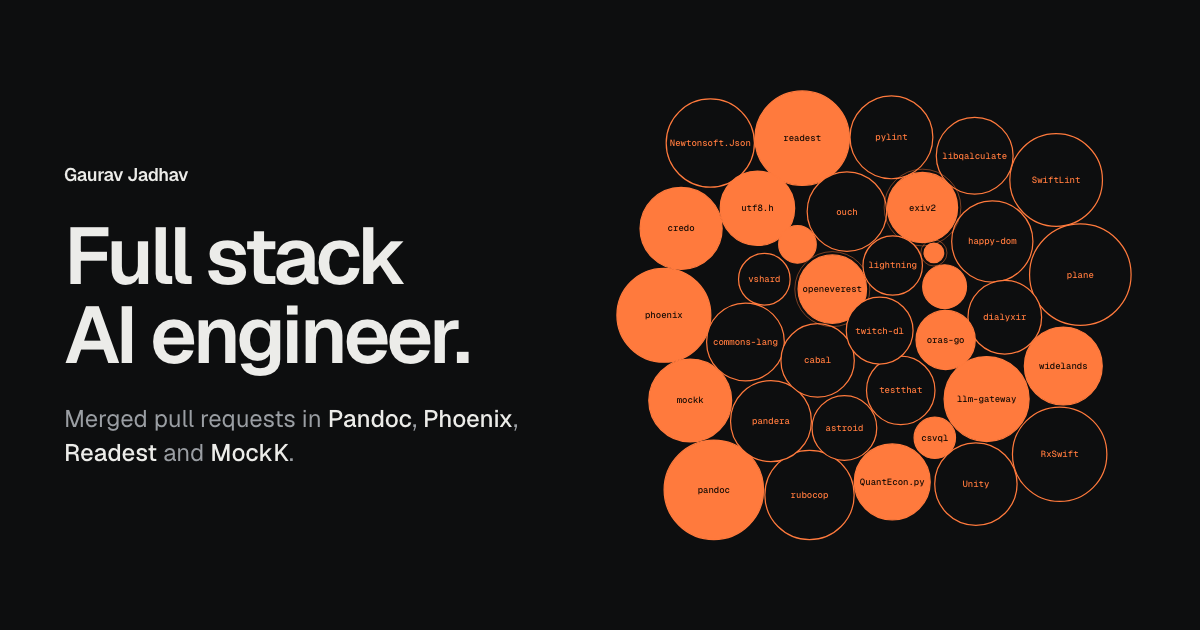
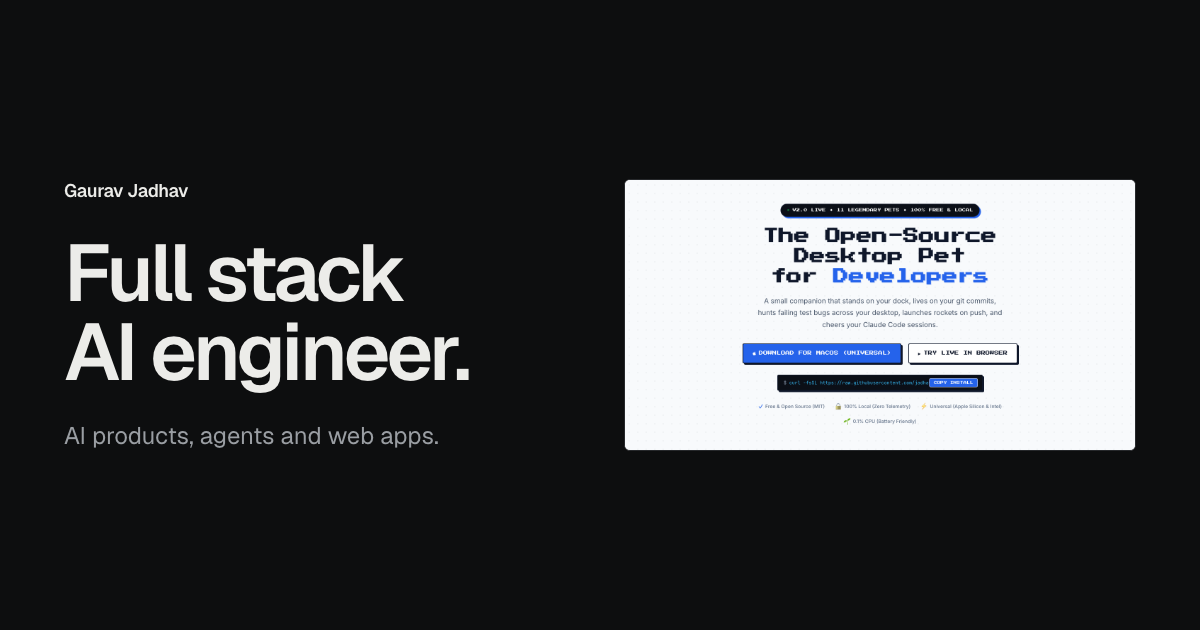
Lead with projects and background, move open source to a secondary section

diff --git a/index.html b/index.html
@@ -4,7 +4,7 @@
   <meta charset="utf-8">
   <meta name="viewport" content="width=device-width, initial-scale=1">
   <title>Gaurav Jadhav | Full Stack AI Engineer</title>
-  <meta name="description" content="Gaurav Jadhav is a full stack AI engineer in Mumbai. Merged pull requests in Pandoc, Phoenix, Readest and MockK, plus projects he built on his own.">
+  <meta name="description" content="Gaurav Jadhav is a full stack AI engineer in Mumbai. AI products, agents and web apps, plus open-source fixes merged into Pandoc, Phoenix and Readest.">
   <meta name="theme-color" content="#0d0e0f" media="(prefers-color-scheme: dark)">
   <meta name="theme-color" content="#f6f6f5" media="(prefers-color-scheme: light)">
   <link rel="canonical" href="https://jadhavgaurav.github.io/">
@@ -13,7 +13,7 @@
   <meta property="og:type" content="website">
   <meta property="og:site_name" content="Gaurav Jadhav">
   <meta property="og:title" content="Gaurav Jadhav | Full Stack AI Engineer">
-  <meta property="og:description" content="Merged pull requests in Pandoc, Phoenix, Readest and MockK, plus projects built on his own.">
+  <meta property="og:description" content="AI products, agents and web apps, plus open-source fixes merged into Pandoc, Phoenix and Readest.">
   <meta property="og:url" content="https://jadhavgaurav.github.io/">
   <meta property="og:image" content="https://jadhavgaurav.github.io/assets/og.png">
   <meta property="og:image:width" content="1200">
@@ -58,9 +58,9 @@
     <div class="container header-inner">
       <a class="wordmark" href="#top">Gaurav Jadhav</a>
       <nav class="primary-nav" aria-label="Primary">
-        <a href="#open-source">Open source</a>
         <a href="#projects">Projects</a>
         <a href="#background">Background</a>
+        <a href="#open-source">Open source</a>
       </nav>
       <div class="header-actions">
         <a class="btn btn-quiet btn-small" href="#contact">Contact</a>
@@ -81,64 +81,24 @@
             <span class="line"><span>AI engineer.</span></span>
           </h1>
           <p class="hero-lead">
-            At Alsonotify, a Digibranders brand.
-            <span data-count="mergedPullRequests">43</span> merged pull requests across
-            <span data-count="mergedProjects">16</span> open-source projects,
-            <span data-count="openPullRequests">31</span> more in review.
+            At Alsonotify, a Digibranders brand. I build AI products, agents and web apps in TypeScript and Python.
           </p>
           <div class="hero-actions">
-            <a class="btn btn-primary" href="#open-source">Open-source work</a>
+            <a class="btn btn-primary" href="#projects">Selected work</a>
             <a class="btn btn-quiet" href="#contact">Contact</a>
           </div>
         </div>
 
         <figure class="hero-visual">
-          <div class="field" id="field" aria-hidden="true" aria-busy="true">
-            <svg id="field-svg" viewBox="0 0 640 560" preserveAspectRatio="xMidYMid meet" role="presentation"></svg>
-            <div class="tooltip" id="tooltip" hidden></div>
-          </div>
-          <figcaption class="field-note">
-            Every project I have sent a pull request to. Size follows stars. Filled means merged, outlined means in review.
+          <a class="shot" href="https://jadhavgaurav.github.io/bitling/" rel="noopener">
+            <img src="assets/bitling-site.png" width="1440" height="760" fetchpriority="high" decoding="async"
+                 alt="The Bitling website: a pixel-font headline reading The Open-Source Desktop Pet for Developers, with download and live demo buttons.">
+          </a>
+          <figcaption class="shot-note">
+            Bitling, my desktop pet for developers.
+            <a class="text-link" href="https://jadhavgaurav.github.io/bitling/" rel="noopener">Try the live demo<span class="icon" style="--icon: url(/assets/icons/arrow-up-right.svg)" aria-hidden="true"></span></a>
           </figcaption>
         </figure>
-      </div>
-    </section>
-
-    <section class="section" id="open-source" aria-labelledby="oss-title">
-      <div class="container">
-        <h2 class="section-title reveal" id="oss-title">Fixes merged into projects people depend on.</h2>
-        <p class="section-lead reveal">Every row links to the pull request on GitHub. The list rebuilds each day from GitHub's API.</p>
-
-        <dl class="stats reveal" id="stats">
-          <div class="stat"><dt>Merged pull requests</dt><dd data-count="mergedPullRequests">43</dd></div>
-          <div class="stat"><dt>Projects with a merge</dt><dd data-count="mergedProjects">16</dd></div>
-          <div class="stat"><dt>Pull requests in review</dt><dd data-count="openPullRequests">31</dd></div>
-          <div class="stat"><dt>Languages touched</dt><dd data-count="languages">16</dd></div>
-        </dl>
-
-        <div class="toolbar reveal">
-          <div class="filters" role="group" aria-label="Filter projects">
-            <button type="button" class="filter" data-filter="all" aria-pressed="true">All</button>
-            <button type="button" class="filter" data-filter="merged" aria-pressed="false">Merged</button>
-            <button type="button" class="filter" data-filter="open" aria-pressed="false">In review</button>
-          </div>
-          <p class="toolbar-status" id="ledger-status" role="status"></p>
-        </div>
-
-        <ol class="ledger" id="ledger" aria-live="off">
-          <li class="ledger-skeleton" aria-hidden="true"></li>
-          <li class="ledger-skeleton" aria-hidden="true"></li>
-          <li class="ledger-skeleton" aria-hidden="true"></li>
-        </ol>
-        <noscript>
-          <p class="ledger-message">The open-source record needs JavaScript.
-            <a href="https://github.com/search?q=author%3Ajadhavgaurav+is%3Apr+is%3Amerged+-user%3Ajadhavgaurav&amp;type=pullrequests">Browse it on GitHub</a>.</p>
-        </noscript>
-        <p class="ledger-message" id="ledger-error" hidden>
-          The record could not be loaded.
-          <a href="https://github.com/search?q=author%3Ajadhavgaurav+is%3Apr+is%3Amerged+-user%3Ajadhavgaurav&amp;type=pullrequests">Browse it on GitHub</a>.
-        </p>
-        <button type="button" class="btn btn-quiet more" id="ledger-more" hidden></button>
       </div>
     </section>
 
@@ -194,7 +154,7 @@
           <div>
             <dt>Phishing website detection</dt>
             <dd>11,430 pages and 89 raw features, cut to 28 by four selection methods and explained with SHAP and LIME. Built during an internship at Code B Solutions.
-              <a class="text-link" href="https://website-phishing-detection.streamlit.app" rel="noopener">Live app<span class="icon" style="--icon: url(/assets/icons/arrow-up-right.svg)" aria-hidden="true"></span></a></dd>
+              <a class="text-link" href="https://github.com/jadhavgaurav/CodeB_Internship_Project" rel="noopener">Source<span class="icon" style="--icon: url(/assets/icons/arrow-up-right.svg)" aria-hidden="true"></span></a></dd>
           </div>
           <div>
             <dt>Kidney disease classification</dt>
@@ -249,6 +209,57 @@
             <p>The final-year project became the paper above.</p>
           </li>
         </ol>
+      </div>
+    </section>
+
+    <section class="section" id="open-source" aria-labelledby="oss-title">
+      <div class="container">
+        <div class="oss-head">
+          <div class="oss-intro">
+            <h2 class="section-title reveal" id="oss-title">Fixes merged into projects people depend on.</h2>
+            <p class="section-lead reveal">Open source runs alongside my main work. Every row links to the pull request on GitHub, and the list rebuilds each day.</p>
+            <dl class="stats reveal" id="stats">
+              <div class="stat"><dt>Merged pull requests</dt><dd data-count="mergedPullRequests">43</dd></div>
+              <div class="stat"><dt>Projects with a merge</dt><dd data-count="mergedProjects">16</dd></div>
+              <div class="stat"><dt>Pull requests in review</dt><dd data-count="openPullRequests">31</dd></div>
+              <div class="stat"><dt>Languages touched</dt><dd data-count="languages">16</dd></div>
+            </dl>
+          </div>
+
+          <figure class="oss-visual">
+            <div class="field" id="field" aria-hidden="true" aria-busy="true">
+              <svg id="field-svg" viewBox="0 0 640 560" preserveAspectRatio="xMidYMid meet" role="presentation"></svg>
+              <div class="tooltip" id="tooltip" hidden></div>
+            </div>
+            <figcaption class="field-note">
+              Every project I have sent a pull request to. Size follows stars. Filled means merged, outlined means in review.
+            </figcaption>
+          </figure>
+        </div>
+
+        <div class="toolbar reveal">
+          <div class="filters" role="group" aria-label="Filter projects">
+            <button type="button" class="filter" data-filter="all" aria-pressed="true">All</button>
+            <button type="button" class="filter" data-filter="merged" aria-pressed="false">Merged</button>
+            <button type="button" class="filter" data-filter="open" aria-pressed="false">In review</button>
+          </div>
+          <p class="toolbar-status" id="ledger-status" role="status"></p>
+        </div>
+
+        <ol class="ledger" id="ledger" aria-live="off">
+          <li class="ledger-skeleton" aria-hidden="true"></li>
+          <li class="ledger-skeleton" aria-hidden="true"></li>
+          <li class="ledger-skeleton" aria-hidden="true"></li>
+        </ol>
+        <noscript>
+          <p class="ledger-message">The open-source record needs JavaScript.
+            <a href="https://github.com/search?q=author%3Ajadhavgaurav+is%3Apr+is%3Amerged+-user%3Ajadhavgaurav&amp;type=pullrequests">Browse it on GitHub</a>.</p>
+        </noscript>
+        <p class="ledger-message" id="ledger-error" hidden>
+          The record could not be loaded.
+          <a href="https://github.com/search?q=author%3Ajadhavgaurav+is%3Apr+is%3Amerged+-user%3Ajadhavgaurav&amp;type=pullrequests">Browse it on GitHub</a>.
+        </p>
+        <button type="button" class="btn btn-quiet more" id="ledger-more" hidden></button>
       </div>
     </section>
 

diff --git a/css/styles.css b/css/styles.css
@@ -281,12 +281,6 @@ a { color: inherit; }
   line-height: 1.5;
   color: var(--muted);
 }
-.hero-lead [data-count] {
-  color: var(--text);
-  font-family: var(--font-mono);
-  font-size: 0.92em;
-  font-weight: 500;
-}
 
 .hero-actions {
   display: flex;
@@ -297,13 +291,18 @@ a { color: inherit; }
 
 .hero-visual { min-width: 0; }
 
-.field {
-  position: relative;
-  width: 100%;
-  aspect-ratio: 640 / 560;
+.shot {
+  display: block;
+  overflow: hidden;
+  background: #ffffff;
+  border: 1px solid var(--line);
+  border-radius: var(--radius);
+  transition: transform 300ms var(--ease), border-color 200ms ease;
 }
-.field svg { display: block; width: 100%; height: 100%; overflow: visible; }
+.shot:hover { transform: translateY(-3px); border-color: var(--muted); }
+.shot img { width: 100%; height: auto; }
 
+.shot-note,
 .field-note {
   max-width: 34rem;
   margin-top: 14px;
@@ -312,6 +311,14 @@ a { color: inherit; }
   line-height: 1.55;
   color: var(--muted);
 }
+.shot-note .text-link { margin-left: 6px; }
+
+.field {
+  position: relative;
+  width: 100%;
+  aspect-ratio: 640 / 560;
+}
+.field svg { display: block; width: 100%; height: 100%; overflow: visible; }
 
 .bubble { cursor: pointer; }
 .bubble-body {
@@ -362,22 +369,28 @@ a { color: inherit; }
   .js .hero-title .line:nth-child(2) > span { animation-delay: 90ms; }
   .js .hero-lead,
   .js .hero-actions,
-  .js .field-note {
+  .js .hero-visual {
     opacity: 0;
     animation: fade-up 800ms var(--ease) forwards;
   }
   .js .hero-lead { animation-delay: 260ms; }
   .js .hero-actions { animation-delay: 360ms; }
-  .js .field-note { animation-delay: 900ms; }
+  .js .hero-visual { animation-delay: 200ms; }
 
-  /* The entrance runs on the outer group so it never fights the hover scale. */
+  /*
+   * The field sits below the fold, so its bubbles wait until it scrolls into
+   * view (main.js adds .is-live). The entrance runs on the outer group so it
+   * never fights the hover scale.
+   */
   .js .bubble-enter {
     opacity: 0;
     transform: scale(0.2);
     transform-box: fill-box;
     transform-origin: center;
+  }
+  .js .field.is-live .bubble-enter {
     animation: pop 800ms var(--ease) forwards;
-    animation-delay: calc(var(--i, 0) * 22ms + 200ms);
+    animation-delay: calc(var(--i, 0) * 22ms);
   }
 
   .js .reveal {
@@ -410,14 +423,20 @@ a { color: inherit; }
   font-size: 1.0625rem;
 }
 
+/* Open-source header: copy and numbers on the left, the star-scaled field on the right. */
+.oss-head { display: grid; gap: clamp(40px, 6vw, 64px); align-items: center; }
+@media (min-width: 960px) {
+  .oss-head { grid-template-columns: minmax(0, 0.85fr) minmax(0, 1.15fr); }
+}
+.oss-visual { min-width: 0; }
+
 /* Stats */
 .stats {
   display: grid;
   grid-template-columns: repeat(2, minmax(0, 1fr));
   gap: 28px 24px;
-  margin-top: clamp(40px, 6vw, 64px);
+  margin-top: clamp(32px, 5vw, 48px);
 }
-@media (min-width: 720px) { .stats { grid-template-columns: repeat(4, minmax(0, 1fr)); } }
 
 .stat { padding-top: 16px; border-top: 1px solid var(--text); }
 .stat dt { font-size: 0.875rem; color: var(--muted); }

diff --git a/scripts/og.html b/scripts/og.html
@@ -13,11 +13,11 @@
   <title>Social preview</title>
   <link rel="stylesheet" href="../css/styles.css">
   <style>
-    body { width: 1200px; height: 630px; overflow: hidden; display: grid; grid-template-columns: 1fr 1fr; align-items: center; gap: 24px; padding: 0 64px; }
+    body { width: 1200px; height: 630px; overflow: hidden; display: grid; grid-template-columns: 1fr 1fr; align-items: center; gap: 48px; padding: 0 64px; }
     .card-name { font-size: 1.125rem; font-weight: 600; letter-spacing: -0.02em; margin-bottom: 28px; }
     .hero-title { font-size: 5rem; }
     .card-lead { margin-top: 28px; max-width: 30rem; font-size: 1.5rem; line-height: 1.4; color: var(--muted); }
-    .card-lead strong { color: var(--text); font-weight: 500; }
+    .shot:hover { transform: none; }
   </style>
 </head>
 <body>
@@ -27,13 +27,8 @@
       <span class="line"><span>Full stack</span></span>
       <span class="line"><span>AI engineer.</span></span>
     </h1>
-    <p class="card-lead">Merged pull requests in <strong>Pandoc</strong>, <strong>Phoenix</strong>, <strong>Readest</strong> and <strong>MockK</strong>.</p>
+    <p class="card-lead">AI products, agents and web apps.</p>
   </div>
-  <div class="field" id="field"><svg id="field-svg" viewBox="0 0 640 560" role="presentation"></svg><div class="tooltip" hidden></div></div>
-  <script type="module">
-    import { renderField } from "../js/bubbles.js";
-    const record = await (await fetch("../data/oss.json")).json();
-    renderField(document.getElementById("field"), record.projects, () => {});
-  </script>
+  <div class="shot"><img src="../assets/bitling-site.png" width="1440" height="760" alt=""></div>
 </body>
 </html>

diff --git a/js/main.js b/js/main.js
@@ -54,6 +54,24 @@ function initReveal() {
   targets.forEach((target) => observer.observe(target));
 }
 
+/* The bubble entrance starts when the field is on screen, not at page load. */
+function initFieldEntrance() {
+  const field = document.getElementById("field");
+  if (prefersReducedMotion || !("IntersectionObserver" in window)) {
+    field.classList.add("is-live");
+    return;
+  }
+  const observer = new IntersectionObserver(
+    ([entry]) => {
+      if (!entry.isIntersecting) return;
+      field.classList.add("is-live");
+      observer.disconnect();
+    },
+    { threshold: 0.25 },
+  );
+  observer.observe(field);
+}
+
 /* Numbers count up once, when the stat strip scrolls into view. */
 function countUp(node, target) {
   if (prefersReducedMotion) {
@@ -71,11 +89,6 @@ function countUp(node, target) {
 }
 
 function applyTotals(totals) {
-  document.querySelectorAll("[data-count]").forEach((node) => {
-    const value = totals[node.dataset.count];
-    if (typeof value === "number" && !node.closest("#stats")) node.textContent = String(value);
-  });
-
   const stats = document.getElementById("stats");
   const statNodes = [...stats.querySelectorAll("[data-count]")];
   const run = () =>
@@ -137,4 +150,5 @@ async function initOpenSourceRecord() {
 initThemeToggle();
 initHeaderRule();
 initReveal();
+initFieldEntrance();
 initOpenSourceRecord();
